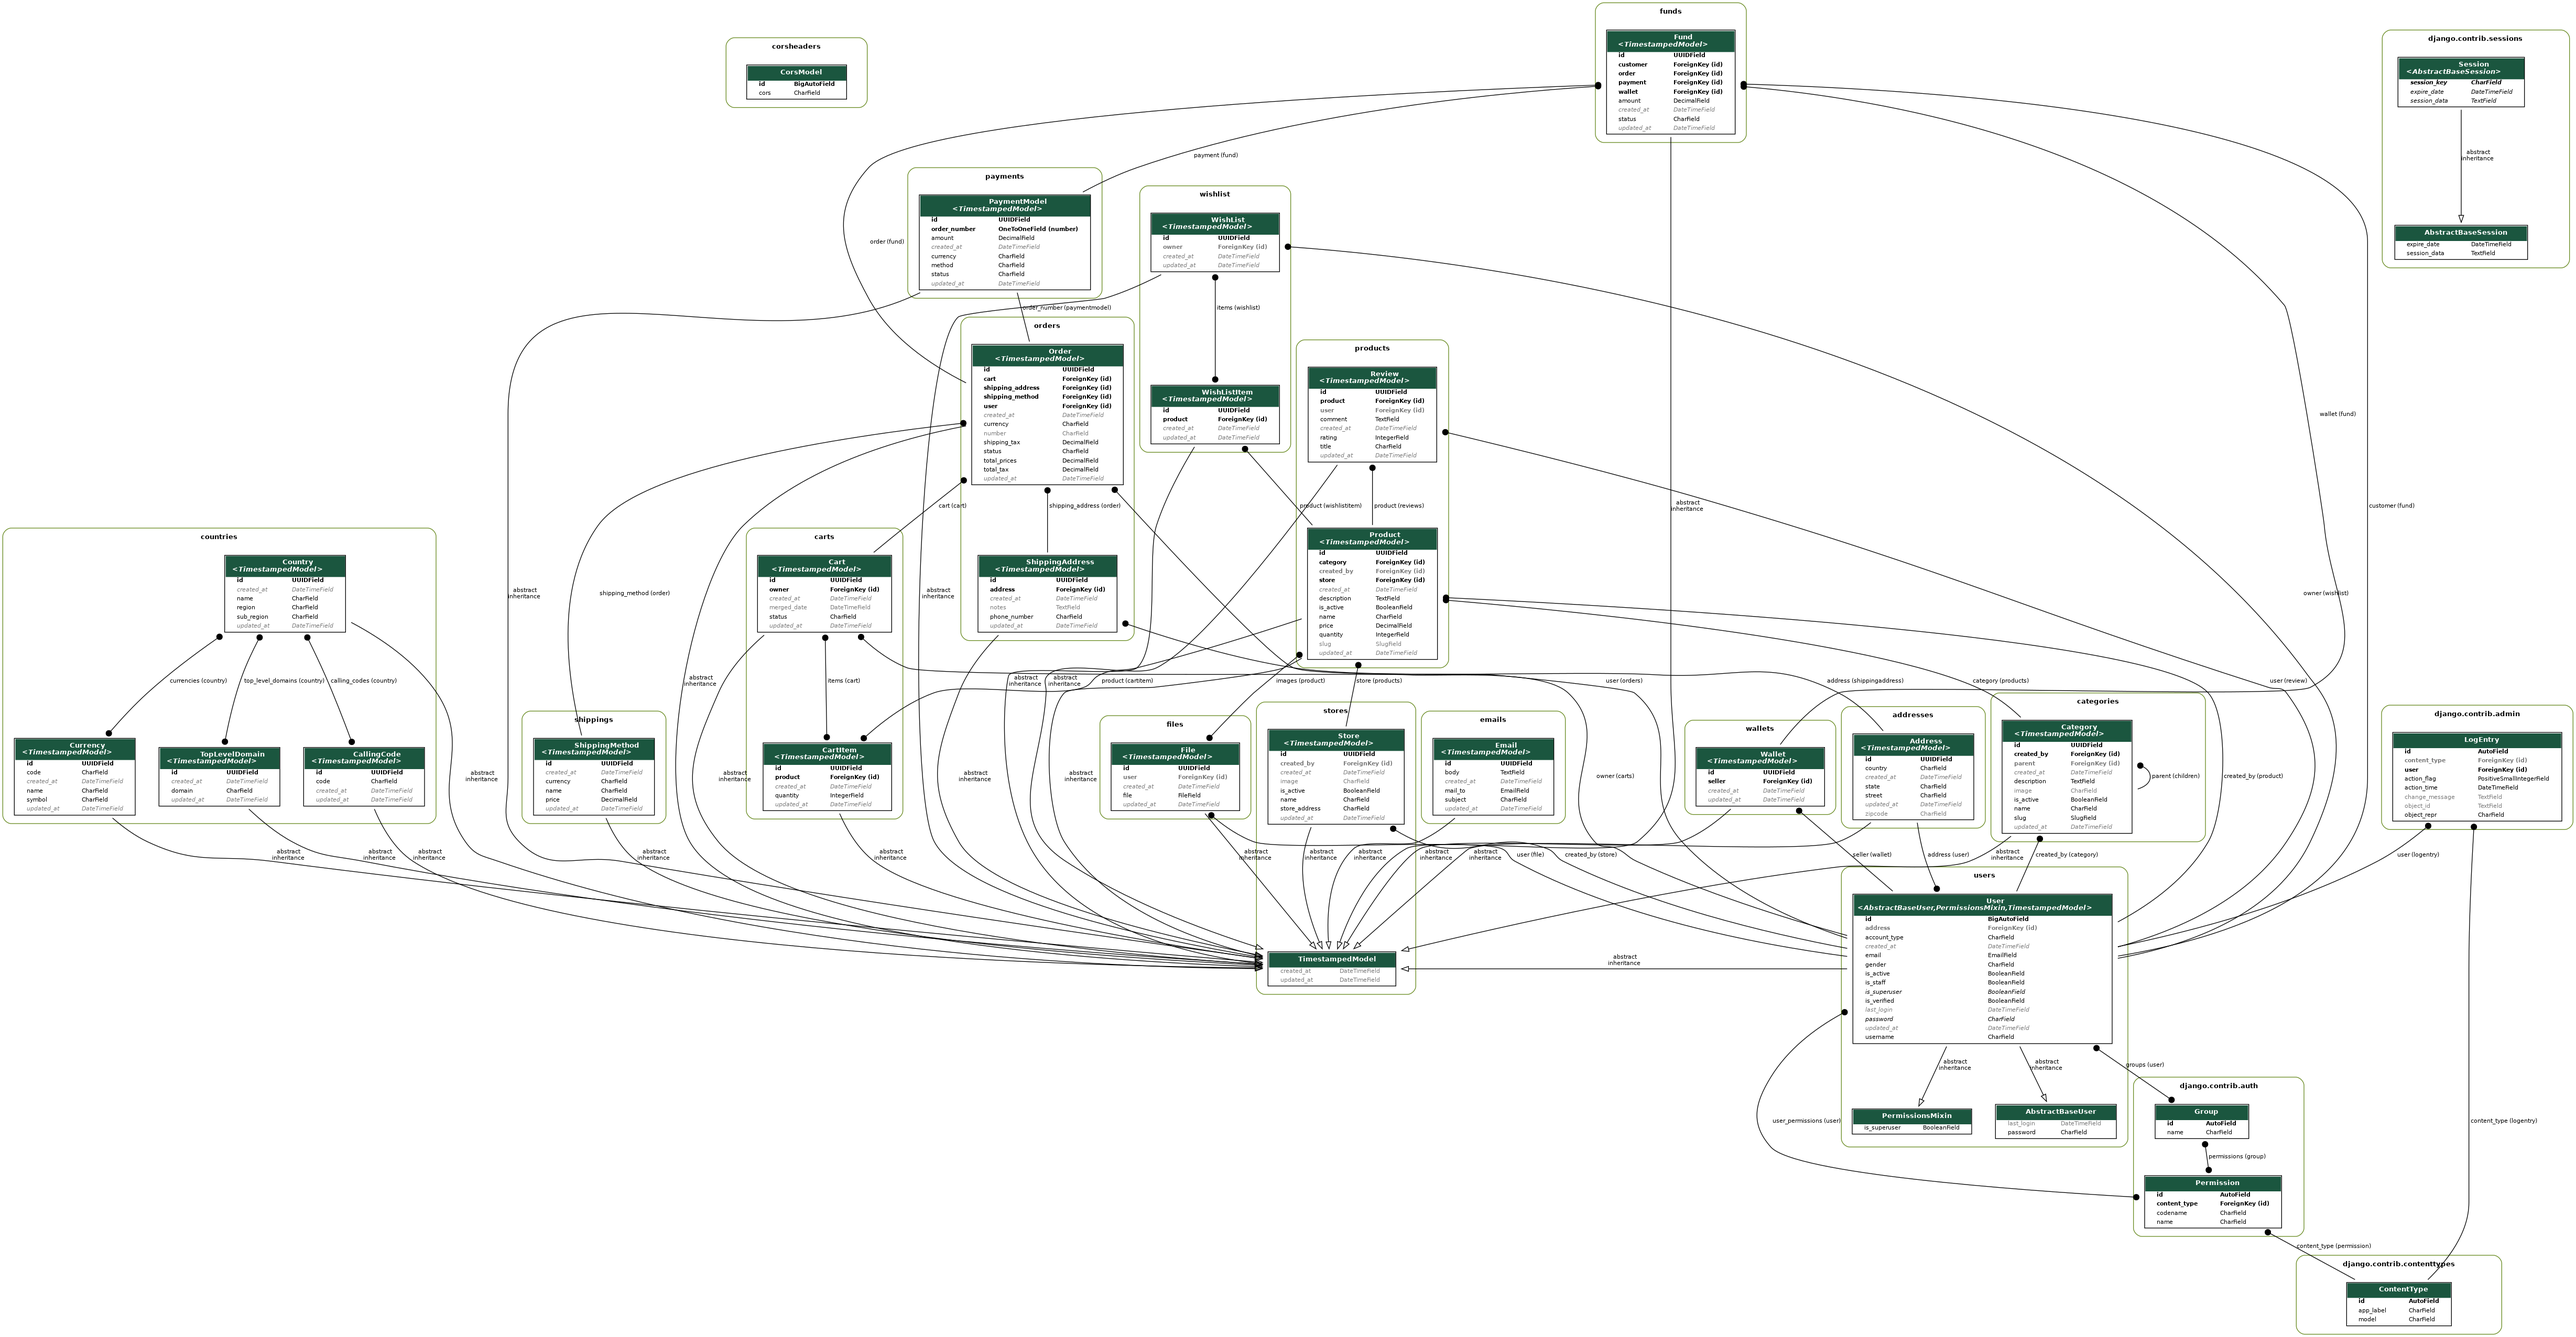
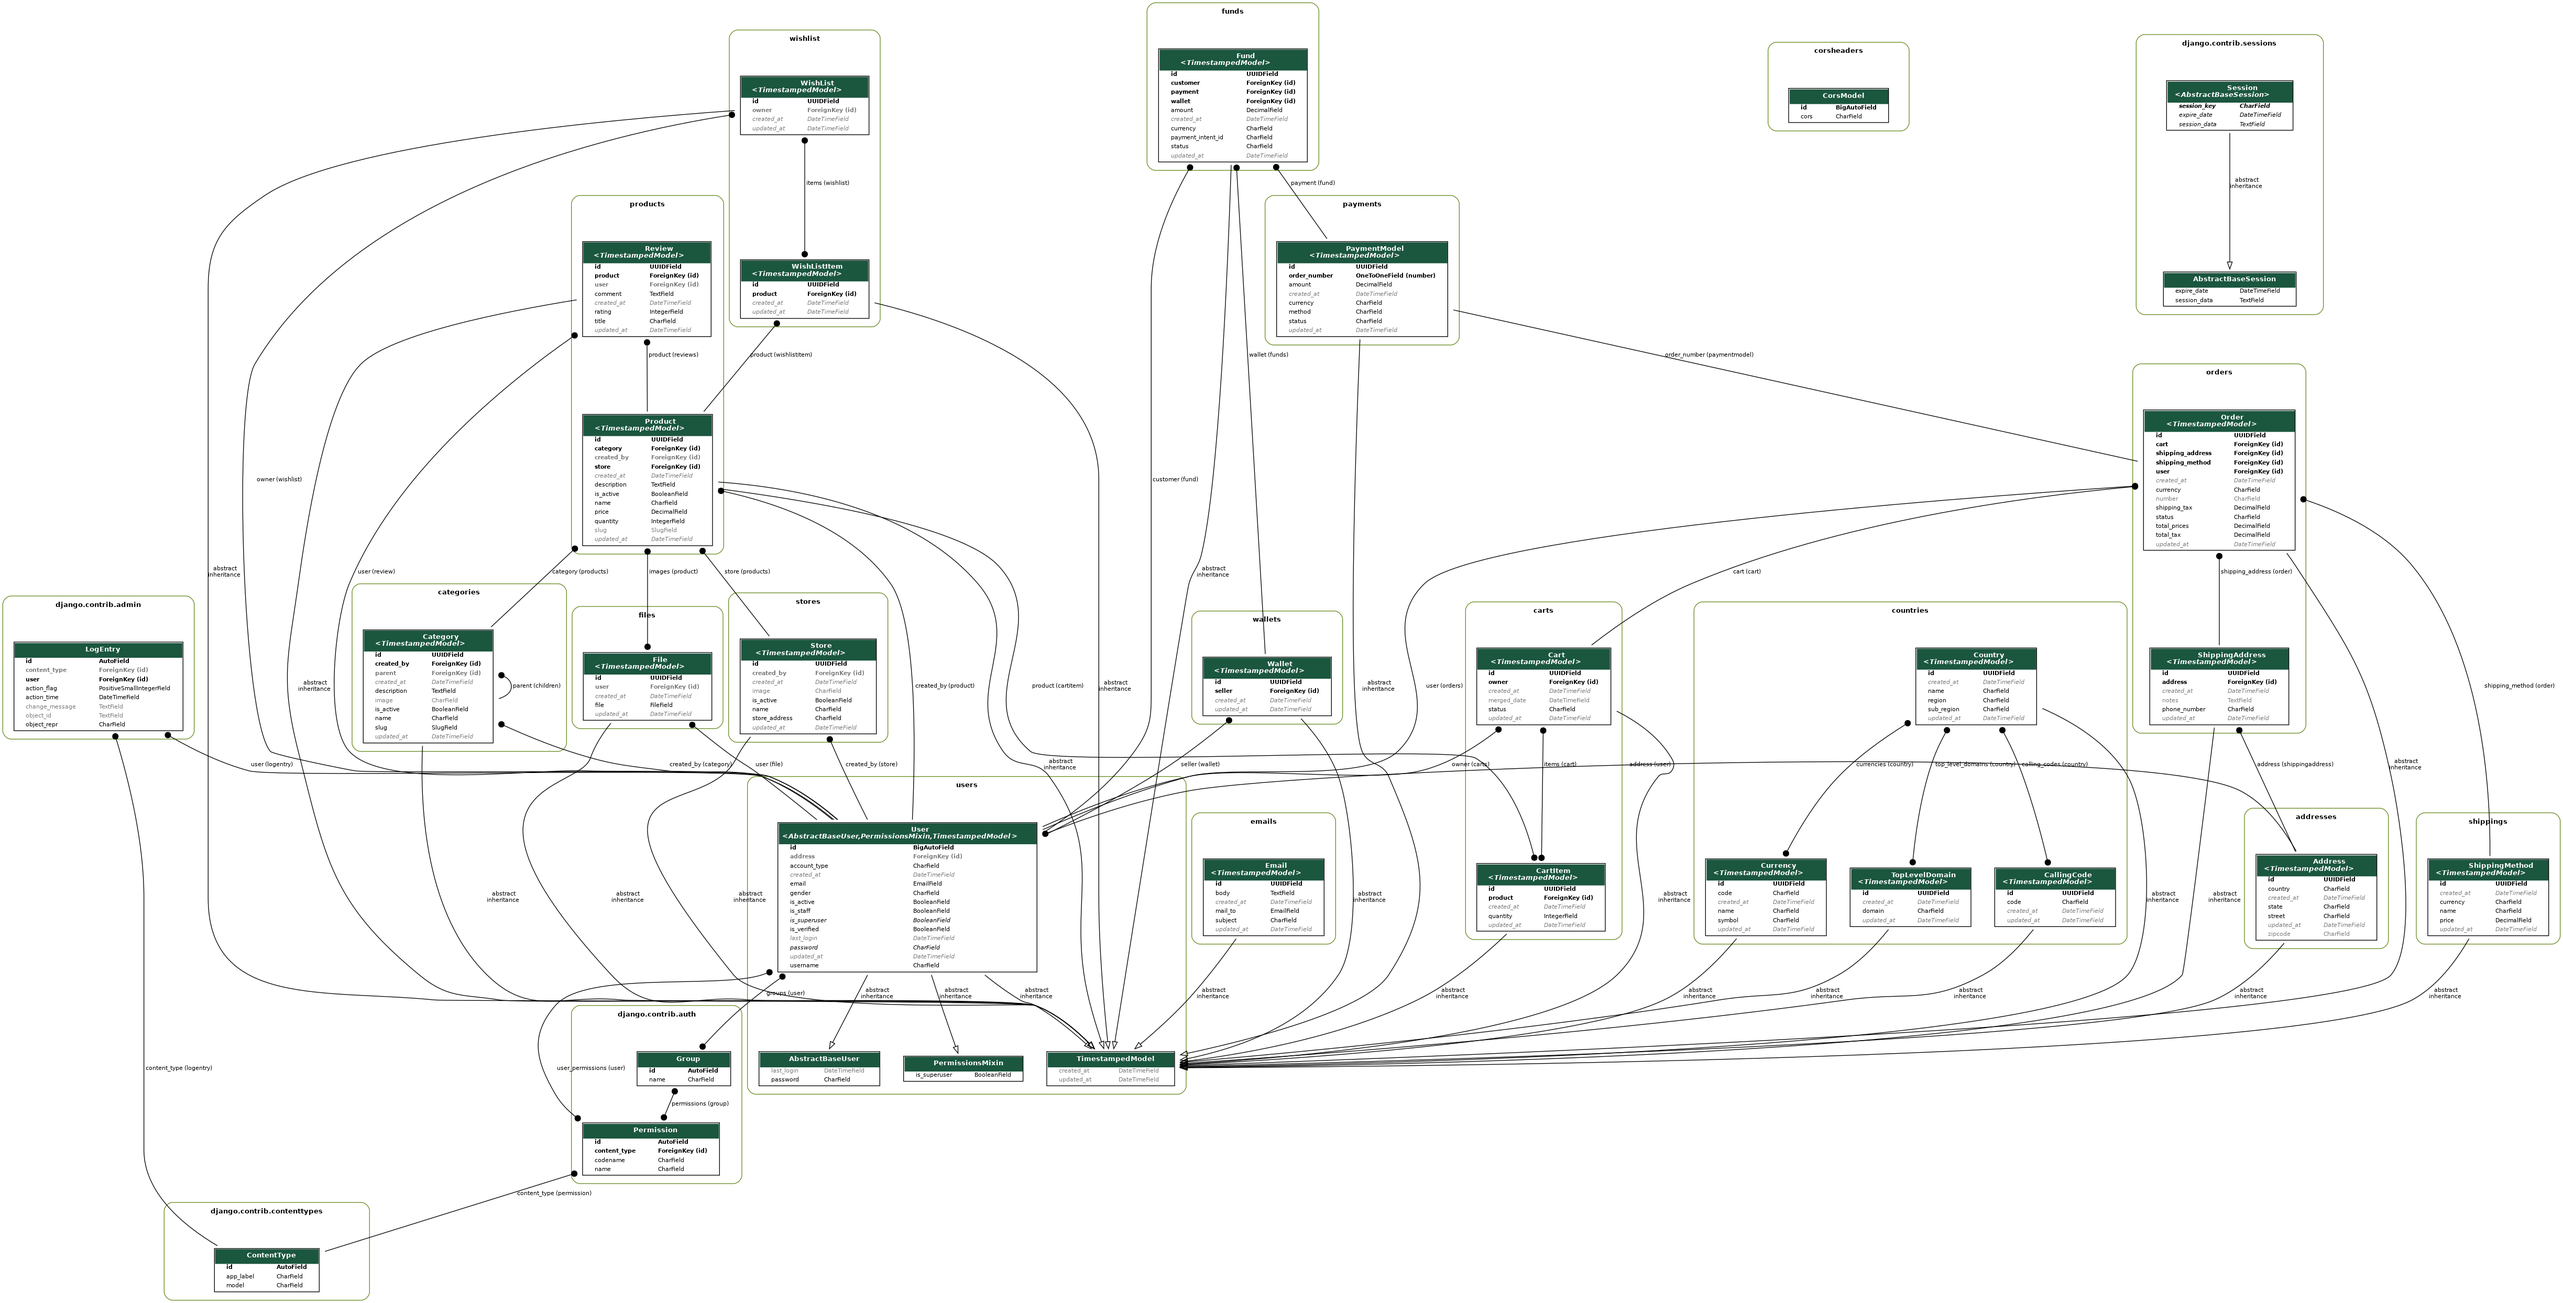
feat: wallets app

diff --git a/vaana_app/funds/models.py b/vaana_app/funds/models.py
@@ -2,7 +2,7 @@ from django.db import models
 from cores.models import TimestampedModel
 import uuid
 from django.conf import settings
-from orders.models import Order
+from products.models import Product
 from payments.models import PaymentModel
 from wallets.models import Wallet
 
@@ -14,15 +14,18 @@ class Fund(TimestampedModel):
     payment = models.ForeignKey(PaymentModel, on_delete=models.CASCADE)
     wallet = models.ForeignKey(Wallet, on_delete=models.CASCADE, related_name="funds")
     payment_intent_id = models.CharField(max_length=255)
+    product = models.ForeignKey(Product, on_delete=models.CASCADE)
 
-    COLLECTED, REFUNDED, TRANSFERED = (
-        "collected", "refunded", "transfered"
+
+    COLLECTED, REFUNDED, TRANSFERED, READY = (
+        "collected", "refunded", "transfered", "ready"
     )
 
     STATUS = [
         (COLLECTED, "collected"),
         (REFUNDED, "refunded"),
-        (TRANSFERED, "trensfered")
+        (TRANSFERED, "trensfered"),
+        (READY, "ready")
     ]
 
     status = models.CharField(max_length=100, default=COLLECTED, choices=STATUS)

diff --git a/vaana_app/payments/views.py b/vaana_app/payments/views.py
@@ -31,7 +31,7 @@ def updateProductsQuantity(cart, payment, payment_intent_id):
             product.quantity = product.quantity - item.quantity
             product.save()
             wallet = WalletController().get(product.created_by)
-            FundController().create((product.price * item.quantity), 'EUR', cart.owner, payment, wallet, payment_intent_id)
+            FundController().create((product.price * item.quantity), 'EUR', cart.owner, payment, wallet, payment_intent_id, product)
             email_data = {
                 'email_body': str(item.quantity) + ' of your  product ' + product.name + ' have been ordered',
                 'to_email': product.created_by.email,

diff --git a/vaana_app/funds/backends.py b/vaana_app/funds/backends.py
@@ -2,14 +2,15 @@ from stripe.api_resources import payment_intent
 from .models import Fund
 
 class FundController(object):
-    def create(self, amount, currency, customer, payment, wallet, payment_intent_id):
+    def create(self, amount, currency, customer, payment, wallet, payment_intent_id, product):
         fund = Fund.objects.create(
             amount=amount,
             currency=currency,
             customer=customer,
             payment=payment,
             wallet=wallet,
-            payment_intent_id=payment_intent_id
+            payment_intent_id=payment_intent_id,
+            product=product
         )
 
         return fund

diff --git a/vaana_app/vaana_app/settings.py b/vaana_app/vaana_app/settings.py
@@ -119,11 +119,11 @@ WSGI_APPLICATION = 'vaana_app.wsgi.application'
 DATABASES = {
     'default': {
         'ENGINE': 'django.db.backends.postgresql',
-        'NAME': 'postgres4',
-        'USER': 'postgres',
-        'PASSWORD': 'admin',
+        'NAME': 'vaanahdb2',
+        'USER': 'vaanah_user',
+        'PASSWORD': 'secret',
         'HOST': 'localhost',
-        'PORT': '5432',
+        'PORT': '5433',
     }
 }
 
